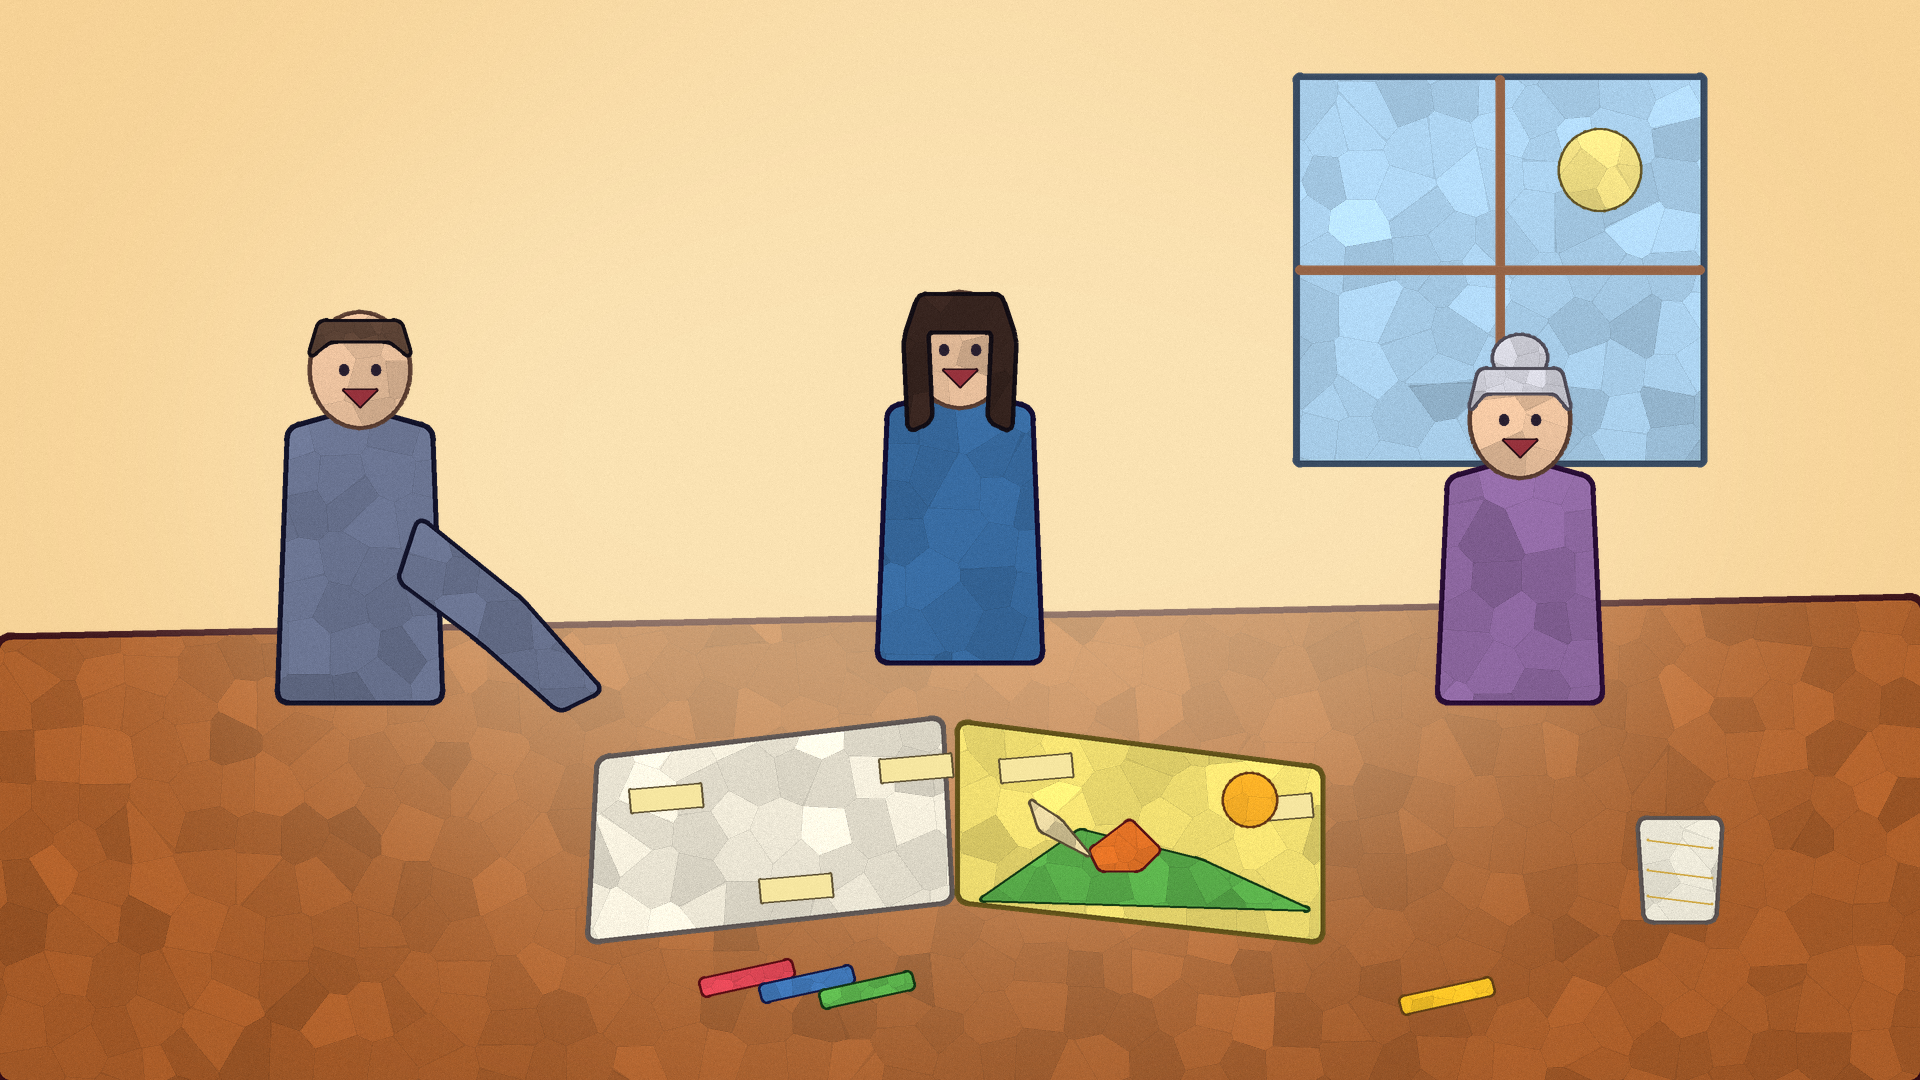
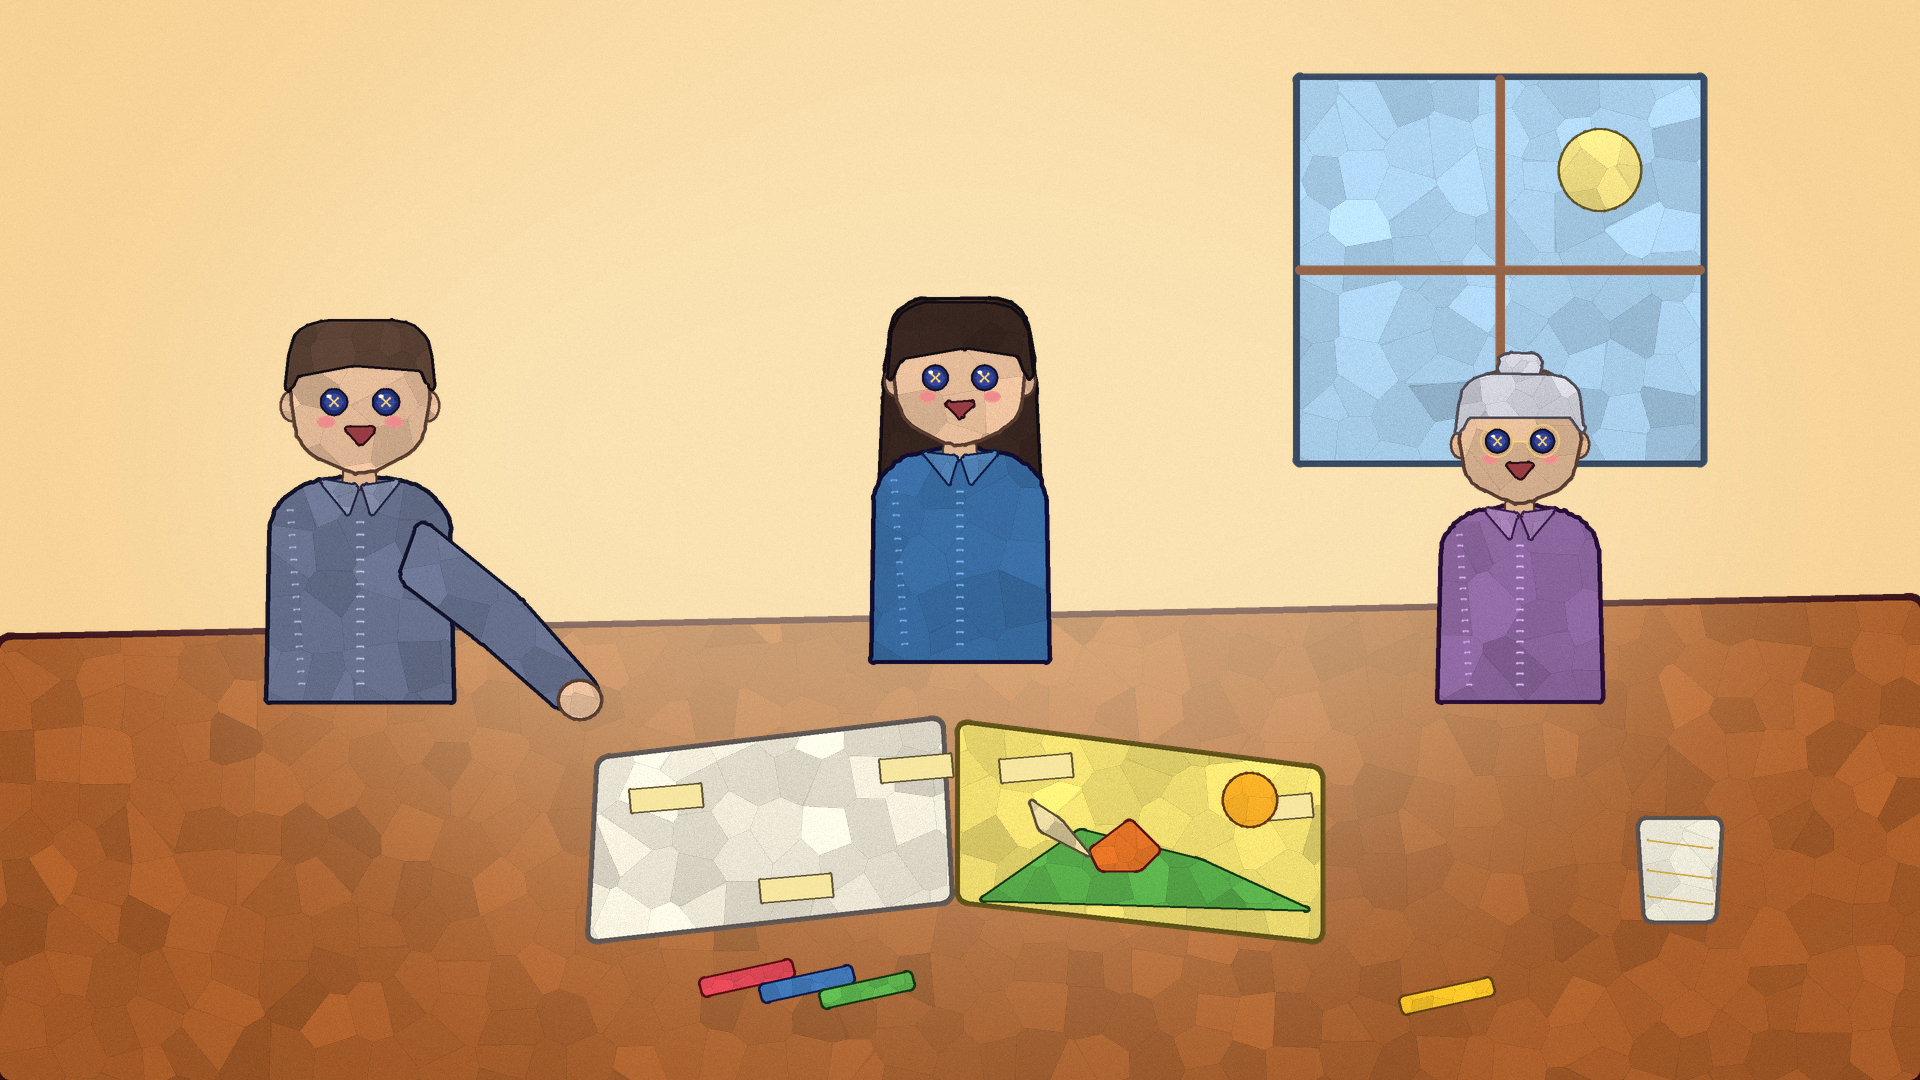
Redraw Nell, Dad and Gran in the papercraft style
The real-world scenes at the end drew the family as plain blocks. They are now
cut-paper chibi figures like the rest of the cast: big heads, faceted parts
edged in a darker shade, stitched seams, collars and sewn-on button eyes, with
laughing, smiling or set mouths and Gran's spectacles.

Claude-Session: https://claude.ai/code/session_01RLJvChxJXFtXZQYtAWEzAU

diff --git a/tools/art/finale_art.py b/tools/art/finale_art.py
@@ -299,23 +299,70 @@ def _open_book(img, left_tone=(244, 240, 226, 255), right_tone=(240, 236, 222, 2
             crayon_poly(img, [(x, y), (x + 70, y - 6), (x + 72, y + 16), (x + 2, y + 22)], (246, 230, 160, 220), width=2, smooth=False, shadow=False)
 
 
-def _person(img, cx, base, height, shirt, hair, skin=SKIN, hair_style="short", arm=None):
-    """A simple cut-paper figure from the waist up, sitting or standing at the table."""
+def _person(img, cx, base, height, shirt, hair, skin=SKIN, hair_style="short", arm=None, mouth="smile", glasses=False):
+    """A cut-paper person from the waist up, sitting or standing at the table, in the
+    same papercraft style as the cast: faceted paper parts edged in a darker shade,
+    stitched seams and sewn-on button eyes."""
+    s = height / 380.0
     top = base - height
-    crayon_poly(img, [(cx - 80, base), (cx - 70, top + 110), (cx, top + 90), (cx + 70, top + 110), (cx + 80, base)], shirt, width=6)
-    crayon_poly(img, ellipse_points(cx, top + 50, 48, 56, 30), skin, width=5)
+    hy = top + 80 * s
+    hw, hh = 70 * s, 76 * s
+    sh = top + 44 * s  # where the shoulders start, below the big chibi head
+    seed = int(cx * 7 + base)
+    # Long hair hangs behind the shoulders, so it goes down first.
     if hair_style == "long":
-        crayon_poly(img, [(cx - 54, top + 40), (cx - 40, top - 4), (cx + 40, top - 4), (cx + 54, top + 40), (cx + 50, top + 130),
-                          (cx + 30, top + 120), (cx + 34, top + 30), (cx - 34, top + 30), (cx - 30, top + 120), (cx - 50, top + 130)], hair, width=5)
-    elif hair_style == "bun":
-        crayon_poly(img, ellipse_points(cx, top - 12, 26, 22, 20), hair, width=4)
-        crayon_poly(img, [(cx - 50, top + 40), (cx - 40, top), (cx + 40, top), (cx + 50, top + 40), (cx + 36, top + 22), (cx - 36, top + 22)], hair, width=4)
+        part(img, [(cx - hw - 8 * s, hy - 10 * s), (cx - hw + 4 * s, hy - hh - 4 * s), (cx + hw - 4 * s, hy - hh - 4 * s),
+                   (cx + hw + 8 * s, hy - 10 * s), (cx + hw + 14 * s, hy + 120 * s), (cx + hw - 8 * s, hy + 134 * s, 0),
+                   (cx - hw + 8 * s, hy + 134 * s, 0), (cx - hw - 14 * s, hy + 120 * s)], hair, width=5, radius=40 * s, seed=seed)
+    # Body: rounded shoulders down to the table edge, with a collar and a stitched placket.
+    body = [(cx - 92 * s, base, 0), (cx - 88 * s, sh + 150 * s), (cx - 60 * s, sh + 122 * s), (cx, sh + 112 * s),
+            (cx + 60 * s, sh + 122 * s), (cx + 88 * s, sh + 150 * s), (cx + 92 * s, base, 0)]
+    part(img, body, shirt, width=6, radius=26 * s, seed=seed + 1)
+    part(img, [(cx - 14 * s, hy + 40 * s), (cx + 14 * s, hy + 40 * s), (cx + 16 * s, sh + 124 * s), (cx - 16 * s, sh + 124 * s)],
+         shade(skin, -14), width=3, radius=6 * s, shadow=False, seed=seed + 2)
+    collar = shade(shirt, 28)
+    part(img, [(cx - 40 * s, sh + 116 * s), (cx - 2 * s, sh + 122 * s), (cx - 12 * s, sh + 150 * s, 0)], collar, width=3, radius=5 * s, seed=seed + 3)
+    part(img, [(cx + 40 * s, sh + 116 * s), (cx + 2 * s, sh + 122 * s), (cx + 12 * s, sh + 150 * s, 0)], collar, width=3, radius=5 * s, seed=seed + 4)
+    stitches(img, [(cx, sh + 152 * s), (cx, base - 10)], color=shade(shirt, 50), step=12 * s, size=3 * s)
+    stitches(img, [(cx - 70 * s, sh + 140 * s), (cx - 58 * s, base - 10)], color=shade(shirt, 40), step=12 * s, size=2.5 * s)
+    # Head, with ears.
+    for ex in (cx - hw + 2 * s, cx + hw - 2 * s):
+        crayon_poly(img, ellipse_points(ex, hy + 6 * s, 10 * s, 14 * s, 14), skin, width=3)
+    part(img, [(cx - hw, hy - 18 * s), (cx - hw * 0.62, hy - hh), (cx + hw * 0.62, hy - hh), (cx + hw, hy - 18 * s),
+               (cx + hw * 0.86, hy + hh * 0.62), (cx, hy + hh), (cx - hw * 0.86, hy + hh * 0.62)], skin, width=5, radius=22 * s, seed=seed + 5)
+    # Hair on top.
+    if hair_style == "bun":
+        part(img, [(cx - 24 * s, hy - hh - 22 * s), (cx + 24 * s, hy - hh - 22 * s), (cx + 22 * s, hy - hh + 8 * s), (cx - 22 * s, hy - hh + 8 * s)],
+             hair, width=4, radius=14 * s, seed=seed + 6)
+        part(img, [(cx - hw - 4 * s, hy - 4 * s), (cx - hw + 6 * s, hy - hh + 2 * s), (cx + hw - 6 * s, hy - hh + 2 * s), (cx + hw + 4 * s, hy - 4 * s),
+                   (cx + hw - 10 * s, hy - 26 * s, 0), (cx - hw + 10 * s, hy - 26 * s, 0)], hair, width=4, radius=40 * s, seed=seed + 7)
+    elif hair_style == "long":
+        part(img, [(cx - hw - 6 * s, hy + 10 * s), (cx - hw + 2 * s, hy - hh), (cx + hw - 2 * s, hy - hh), (cx + hw + 6 * s, hy + 10 * s),
+                   (cx + hw - 8 * s, hy - 22 * s, 0), (cx + 4 * s, hy - 30 * s, 0), (cx - hw + 8 * s, hy - 18 * s, 0)], hair, width=4, radius=40 * s, seed=seed + 8)
     else:
-        crayon_poly(img, [(cx - 50, top + 36), (cx - 40, top + 2), (cx + 40, top + 2), (cx + 50, top + 36), (cx + 30, top + 20), (cx - 30, top + 20)], hair, width=4)
-    for ex in (cx - 16, cx + 16):
-        crayon_poly(img, ellipse_points(ex, top + 50, 5, 6, 10), INK, outline=False, shadow=False)
+        part(img, [(cx - hw - 4 * s, hy - 6 * s), (cx - hw + 4 * s, hy - hh - 2 * s), (cx + hw - 4 * s, hy - hh - 2 * s), (cx + hw + 4 * s, hy - 6 * s),
+                   (cx + hw - 8 * s, hy - 30 * s, 0), (cx - 6 * s, hy - 36 * s, 0), (cx - hw + 8 * s, hy - 26 * s, 0)], hair, width=4, radius=40 * s, seed=seed + 9)
+    # Face: button eyes, rosy cheeks and a mouth.
+    for ex in (cx - 26 * s, cx + 26 * s):
+        button(img, ex, hy + 2 * s, 12 * s, color=(36, 52, 132, 255))
+        crayon_poly(img, ellipse_points(ex + (8 if ex > cx else -8) * s, hy + 22 * s, 9 * s, 6 * s, 14), (236, 140, 140, 150), outline=False, shadow=False)
+    if glasses:
+        d = ImageDraw.Draw(img)
+        for ex in (cx - 26 * s, cx + 26 * s):
+            d.ellipse([ex - 19 * s, hy - 17 * s, ex + 19 * s, hy + 21 * s], outline=(232, 200, 120, 255), width=max(2, int(3 * s)))
+        ink_line(img, [(cx - 7 * s, hy + 2 * s), (cx + 7 * s, hy + 2 * s)], width=2.5 * s, wobble=0, color=(232, 200, 120, 255))
+    lip = (150, 60, 66, 255)
+    if mouth == "laugh":
+        part(img, [(cx - 16 * s, hy + 28 * s), (cx + 16 * s, hy + 28 * s), (cx, hy + 46 * s)], lip, width=3, radius=6 * s, shadow=False, seed=seed + 10)
+    elif mouth == "flat":
+        ink_line(img, [(cx - 10 * s, hy + 34 * s), (cx + 10 * s, hy + 34 * s)], width=3 * s, wobble=0, color=lip)
+    else:
+        ink_line(img, [(cx - 12 * s, hy + 30 * s), (cx, hy + 36 * s), (cx + 12 * s, hy + 30 * s)], width=3 * s, wobble=0, color=lip)
     if arm:
-        crayon_poly(img, arm, shirt, width=5)
+        part(img, arm, shirt, width=5, radius=12 * s, seed=seed + 11)
+        hx = (arm[2][0] + arm[3][0]) / 2
+        hy2 = (arm[2][1] + arm[3][1]) / 2
+        crayon_poly(img, ellipse_points(hx, hy2, 20 * s, 18 * s, 18), skin, width=4)
 
 
 def build_nell_dryer():
@@ -326,14 +373,14 @@ def build_nell_dryer():
     _lamp(img)
     # Gran in her chair on the left, with her glued-together mug.
     crayon_poly(img, [(150, 360), (380, 360), (400, 700), (130, 700)], (120, 80, 120, 255), width=6)
-    _person(img, 265, 700, 300, (150, 110, 170, 255), (220, 220, 230, 255), hair_style="bun")
+    _person(img, 265, 700, 300, (150, 110, 170, 255), (220, 220, 230, 255), hair_style="bun", glasses=True)
     crayon_poly(img, [(400, 600), (460, 600), (456, 680), (404, 680)], (240, 236, 220, 255), width=5)
     for y in (620, 640, 660):
         ink_line(img, [(406, y), (452, y + 6)], width=1.6, wobble=0.6, color=(200, 160, 60, 255))
     _open_book(img)
     # Nell standing over the book, hairdryer in both hands.
-    _person(img, 1220, 760, 420, NELL, HAIR, hair_style="long",
-            arm=[(1170, 470), (1120, 560), (1060, 620), (1090, 650), (1160, 590), (1220, 500)])
+    _person(img, 1220, 760, 420, NELL, HAIR, hair_style="long", mouth="flat",
+            arm=[(1170, 540), (1120, 590), (1080, 630), (1110, 660), (1170, 620), (1230, 560)])
     crayon_poly(img, [(960, 560), (1120, 520), (1140, 600), (980, 640)], DRYER, width=6)
     crayon_poly(img, [(1080, 600), (1120, 600), (1130, 700), (1090, 700)], DRYER, width=5)
     crayon_poly(img, ellipse_points(960, 600, 20, 40, 20), (60, 40, 50, 255), width=4)
@@ -361,15 +408,11 @@ def build_morning_table():
     ink_line(img, [(1500, 80), (1500, 460)], width=8, wobble=0, color=(150, 100, 70, 255))
     ink_line(img, [(1300, 270), (1700, 270)], width=8, wobble=0, color=(150, 100, 70, 255))
     crayon_poly(img, ellipse_points(1600, 170, 40, 40, 24), (255, 236, 140, 255), width=3)
-    # Dad, Nell and Gran round the table.
-    _person(img, 360, 700, 380, (110, 120, 150, 255), (96, 70, 56, 255),
+    # Dad, Nell and Gran round the table, laughing.
+    _person(img, 360, 700, 380, (110, 120, 150, 255), (96, 70, 56, 255), mouth="laugh",
             arm=[(420, 520), (520, 600), (600, 690), (560, 710), (480, 640), (400, 580)])
-    _person(img, 960, 660, 360, NELL, HAIR, hair_style="long")
-    _person(img, 1520, 700, 330, (150, 110, 170, 255), (220, 220, 230, 255), hair_style="bun")
-    # Everyone's mouths open laughing.
-    for cx, base, height in ((360, 700, 380), (960, 660, 360), (1520, 700, 330)):
-        top = base - height
-        crayon_poly(img, [(cx - 16, top + 70), (cx + 16, top + 70), (cx, top + 86)], (150, 50, 60, 255), width=2, smooth=False, shadow=False)
+    _person(img, 960, 660, 360, NELL, HAIR, hair_style="long", mouth="laugh")
+    _person(img, 1520, 700, 330, (150, 110, 170, 255), (220, 220, 230, 255), hair_style="bun", mouth="laugh", glasses=True)
     # The mended book, lumpy and proud.
     crayon_poly(img, [(600, 760), (940, 720), (950, 900), (590, 940)], (250, 244, 226, 255), width=6)
     crayon_poly(img, [(960, 724), (1320, 770), (1320, 940), (960, 900)], LEMON, width=6)
